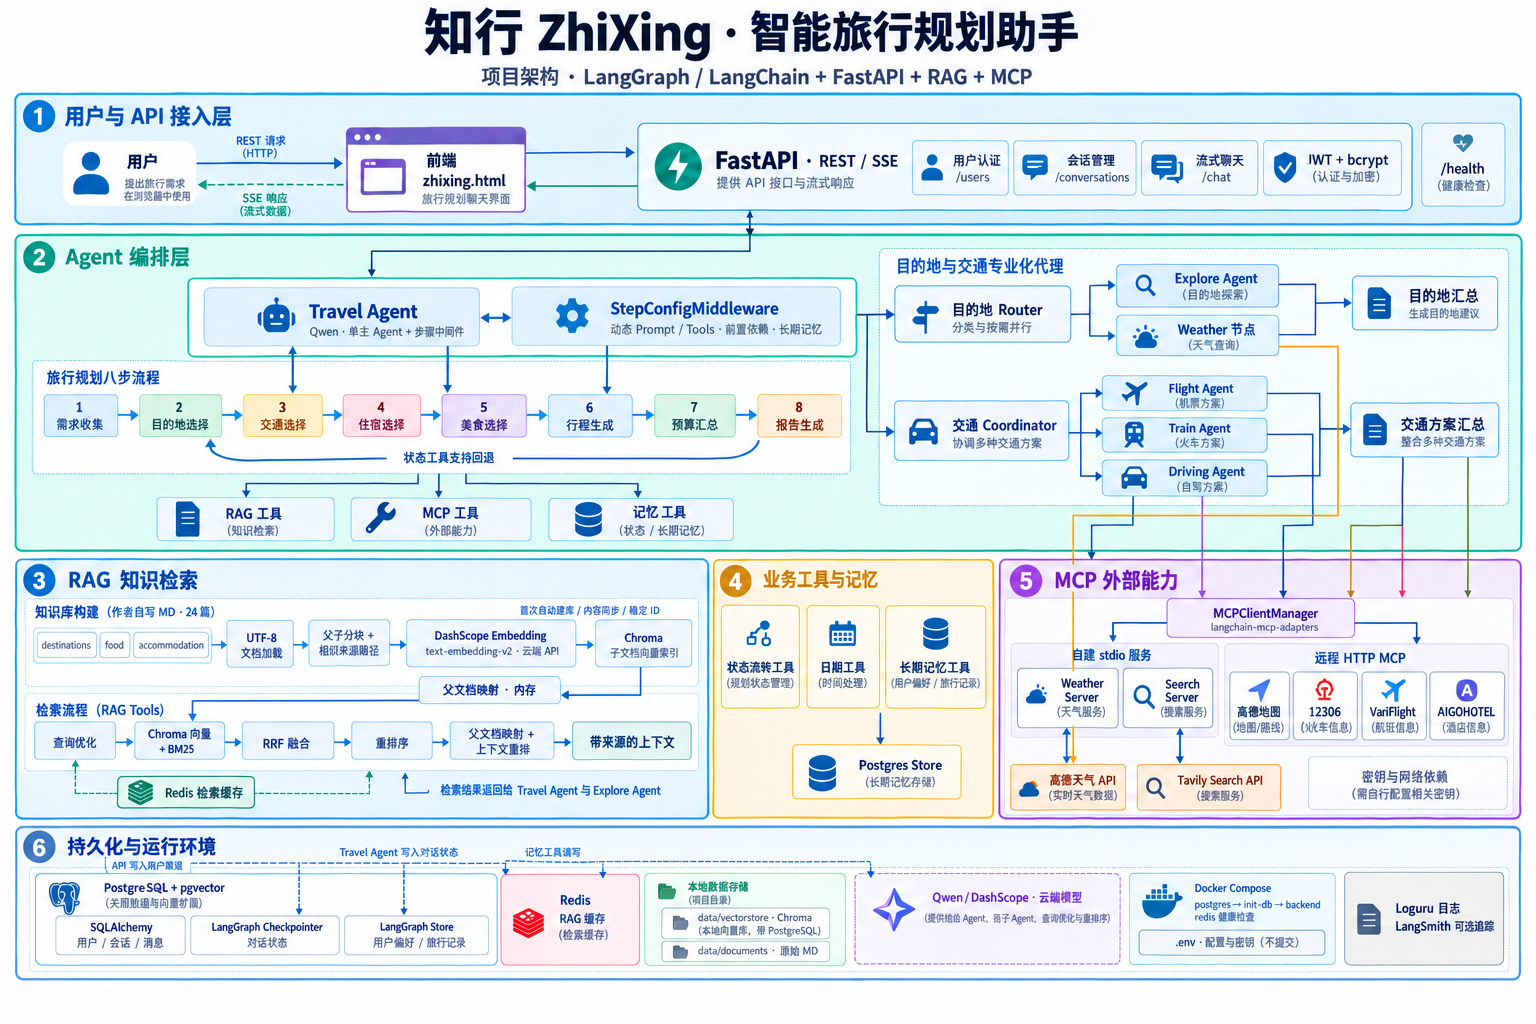
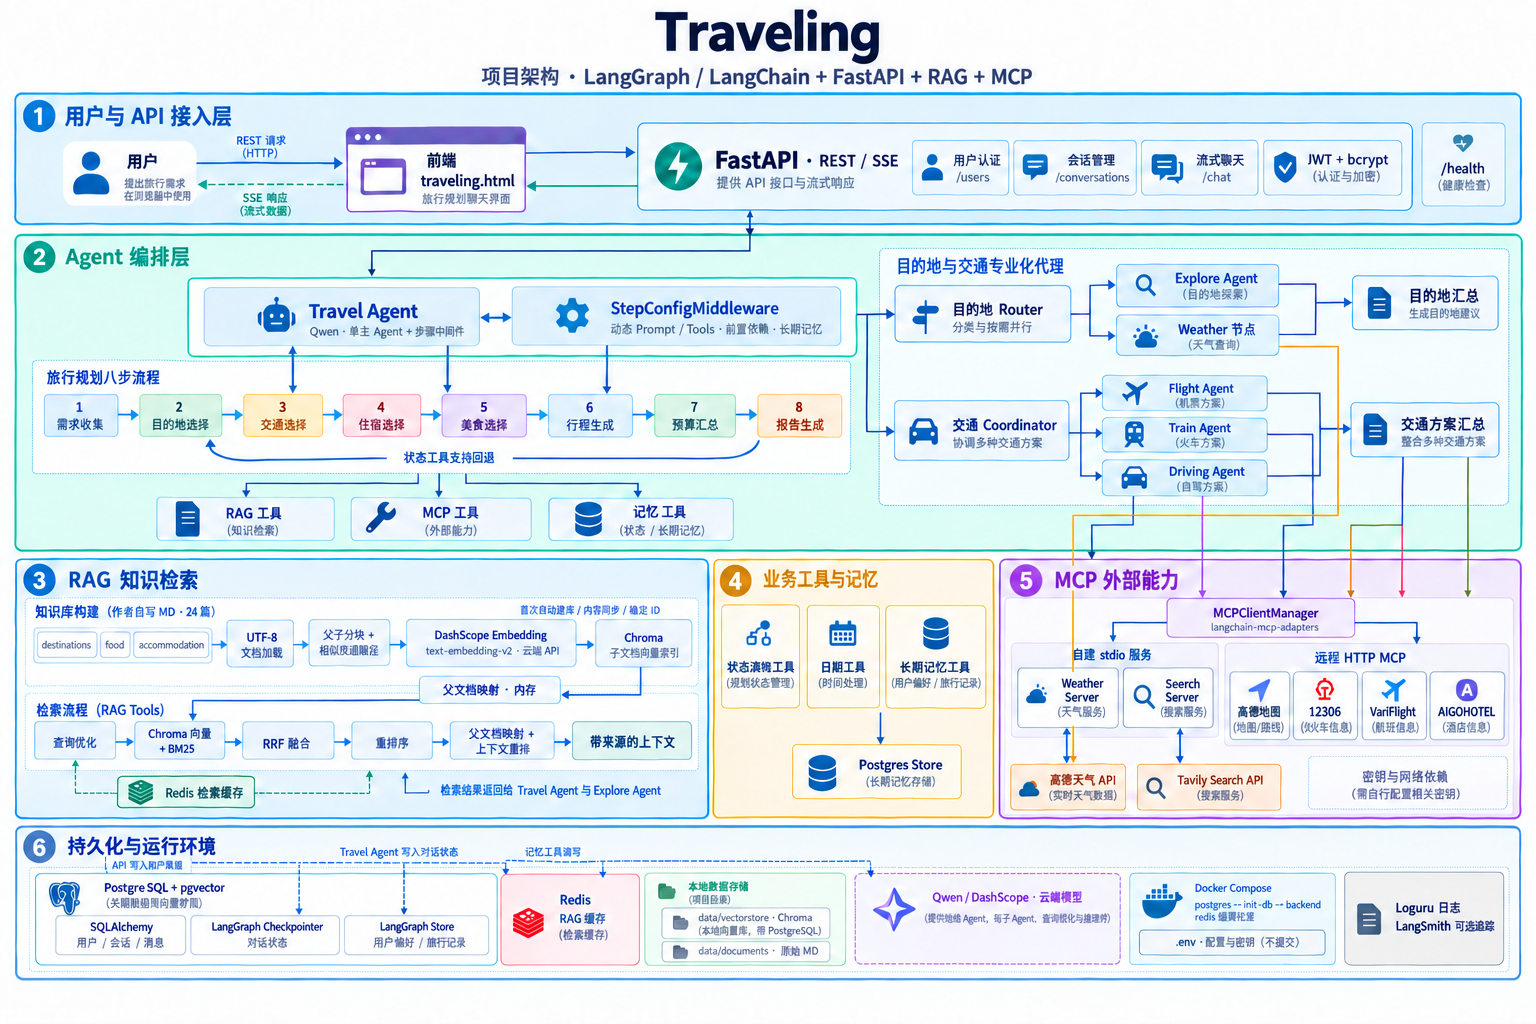
chore: rename project branding to Traveling

diff --git a/traveling.html b/traveling.html
@@ -3,7 +3,7 @@
   <head>
     <meta charset="UTF-8" />
     <meta name="viewport" content="width=device-width, initial-scale=1.0" />
-    <title>知行 ZhiXing - 您的智能旅伴</title>
+    <title>Traveling</title>
     <!-- 引入 Google Fonts: Noto Serif SC (宋体-知性), Noto Sans SC (黑体-现代), Playfair Display (英文衬线) -->
     <link
       href="https://fonts.googleapis.com/css2?family=Noto+Sans+SC:wght@300;400;500&family=Noto+Serif+SC:wght@500;700&family=Playfair+Display:wght@600;700&display=swap"
@@ -17,7 +17,7 @@
 
     <style>
       :root {
-        /* 配色方案：知行 - 大地与海洋 */
+        /* 配色方案：Traveling - 大地与海洋 */
         --primary: #1a4d54; /* 深黛绿 - 沉稳 */
         --primary-light: #2c6e7a;
         --accent: #c28e5c; /* 古铜金 - 高级感强调色 */
@@ -809,7 +809,7 @@
         <div class="stamp-decoration">VISA</div>
 
         <div class="auth-header">
-          <div class="auth-logo"><i class="fa-solid fa-compass"></i>知行</div>
+          <div class="auth-logo"><i class="fa-solid fa-compass"></i>Traveling</div>
           <p class="auth-subtitle">
             Read Thousands of Books, Travel Thousands of Miles
           </p>
@@ -873,7 +873,7 @@
       <aside class="sidebar glass-card">
         <div class="sidebar-header">
           <div class="sidebar-logo-text">
-            <i class="fa-solid fa-mountain-sun"></i> 知行
+            <i class="fa-solid fa-mountain-sun"></i> Traveling
           </div>
           <div class="user-passport">
             <div class="user-avatar-frame" id="userAvatar">User</div>
@@ -923,7 +923,7 @@
             <div class="welcome-logo">
               <i class="fa-solid fa-paper-plane"></i>
             </div>
-            <h3 class="welcome-title">欢迎使用 知行</h3>
+            <h3 class="welcome-title">欢迎使用 Traveling</h3>
             <p class="welcome-text">
               告诉我你想去哪里？我可以帮你规划路线、寻找隐秘的沙滩、预订最棒的日落景观位。
             </p>
@@ -1030,7 +1030,7 @@
             state.user = data.user;
             localStorage.setItem("token", state.token);
             localStorage.setItem("user", JSON.stringify(state.user));
-            showToast(isRegister ? "欢迎加入知行！" : "欢迎回来！");
+            showToast(isRegister ? "欢迎加入 Traveling！" : "欢迎回来！");
             hideAuthOverlay();
             updateUserInfo();
             loadConversations();
@@ -1206,7 +1206,7 @@
         document.getElementById("chatMessages").innerHTML = `
                 <div class="welcome-screen">
                     <div class="welcome-logo"><i class="fa-solid fa-paper-plane"></i></div>
-                    <h3 class="welcome-title">欢迎使用 知行</h3>
+                    <h3 class="welcome-title">欢迎使用 Traveling</h3>
                     <p class="welcome-text">告诉我你想去哪里？我可以帮你规划路线、寻找隐秘的沙滩、预订最棒的日落景观位。</p>
                 </div>
             `;

diff --git a/app/main.py b/app/main.py
@@ -52,7 +52,7 @@ async def lifespan(app: FastAPI):
 
 
 app = FastAPI(
-    title="旅行规划系统",
+    title="Traveling",
     description="企业级多 Agent 旅行规划服务",
     version="1.0.0",
     lifespan=lifespan
@@ -73,13 +73,13 @@ app.include_router(chat.router, prefix="/api/v1")
 
 @app.get("/")
 async def root():
-    return FileResponse(Path(__file__).resolve().parent.parent / "zhixing.html")
+    return FileResponse(Path(__file__).resolve().parent.parent / "traveling.html")
 
 
 @app.get("/health")
 async def health():
     return {
-        "service": "Travel Planner",
+        "service": "Traveling",
         "docs": "/docs",
         "status": "healthy",
         "version": "1.0.0"

diff --git a/docs/architecture-image-prompt.md b/docs/architecture-image-prompt.md
@@ -5,12 +5,12 @@
 ## 生成提示词
 
 Use case: infographic-diagram.
-Asset type: a complete raster software architecture diagram for the GitHub README of 知行 ZhiXing travel planner. Create one polished high-resolution landscape image with a white background, crisp readable Chinese typography, simple flat technical blocks, subtle navy/teal/purple/amber color coding, generous whitespace, orthogonal directional arrows, no photographic or decorative scene. This is an engineering diagram: accurate labels and connections are more important than ornament. Aim for 3072x2048 or similarly large landscape resolution. Do not render source code or Mermaid.
+Asset type: a complete raster software architecture diagram for the GitHub README of Traveling travel planner. Create one polished high-resolution landscape image with a white background, crisp readable Chinese typography, simple flat technical blocks, subtle navy/teal/purple/amber color coding, generous whitespace, orthogonal directional arrows, no photographic or decorative scene. This is an engineering diagram: accurate labels and connections are more important than ornament. Aim for 3072x2048 or similarly large landscape resolution. Do not render source code or Mermaid.
 
-Title verbatim: "知行 ZhiXing · 智能旅行规划助手"
+Title verbatim: "Traveling"
 Subtitle: "项目架构 · LangGraph / LangChain + FastAPI + RAG + MCP"
 
-Arrange four main horizontal tiers with clearly labeled subsystem containers. Tier 1 top full width: user icon "用户" -> "前端 zhixing.html" -> "FastAPI · REST / SSE". REST request forward and SSE response back. FastAPI has small endpoint boxes "用户认证 /users", "会话管理 /conversations", "流式聊天 /chat", and "JWT + bcrypt". Show health label "/health" small separate.
+Arrange four main horizontal tiers with clearly labeled subsystem containers. Tier 1 top full width: user icon "用户" -> "前端 traveling.html" -> "FastAPI · REST / SSE". REST request forward and SSE response back. FastAPI has small endpoint boxes "用户认证 /users", "会话管理 /conversations", "流式聊天 /chat", and "JWT + bcrypt". Show health label "/health" small separate.
 
 Tier 2 central orchestration large container "Agent 编排层".
 Main left-center box: "Travel Agent" subtext "Qwen · 单主 Agent + 步骤中间件".
@@ -50,3 +50,8 @@ Make only these engineering accuracy corrections:
 3. Section numbering must be sequential: 1 用户与 API 接入层, 2 Agent 编排层, 3 RAG 知识检索, 4 业务工具与记忆, 5 MCP 外部能力, 6 持久化与运行环境. Put 5 in the purple MCP section badge and change the final persistent section badge from 4 to 6.
 4. In RAG indexing, Chroma connects to the query box Chroma 向量 + BM25 (vector candidate retrieval), not to 带来源的上下文. Remove the vertical arrow between the Chroma 子文档向量索引 box and 带来源的上下文. The retrieved context comes from 父文档映射 + 上下文重排. Draw a small thin connecting line from the Chroma index box to Chroma 向量 + BM25 routed within RAG area, keeping labels unobstructed.
 Do not add or remove any other components. No extra footer. Output one polished image at the same landscape aspect ratio.
+
+
+## 品牌命名修订
+
+使用内置 imagegen 编辑：将图片主标题改为 Traveling，前端文件名改为 traveling.html，其余模块、文字和连线保持原样。

diff --git a/README.md b/README.md
@@ -1,12 +1,12 @@
-# 知行 ZhiXing · 智能旅行规划助手
+# Traveling
 
-基于 LangGraph / LangChain 多 Agent、RAG 和 MCP 的旅行规划学习项目。后端使用 FastAPI，聊天通过 SSE 返回；前端为单文件页面 `zhixing.html`。
+基于 LangGraph / LangChain 多 Agent、RAG 和 MCP 的旅行规划学习项目。后端使用 FastAPI，聊天通过 SSE 返回；前端为单文件页面 `traveling.html`。
 
 支持需求收集、目的地推荐、交通协调、住宿与美食建议，以及行程和预算报告。对话状态、用户和长期记忆保存在 PostgreSQL 中，RAG 索引使用本地 Chroma。
 
 ## 项目架构
 
-[![知行项目架构图：API、Agent 编排、RAG、MCP 与持久化](docs/assets/architecture.png)](docs/assets/architecture.png)
+[![Traveling 项目架构图：API、Agent 编排、RAG、MCP 与持久化](docs/assets/architecture.png)](docs/assets/architecture.png)
 
 点击图片可查看大图。主规划流程由一个 Travel Agent 和步骤中间件驱动；目的地 Router 按查询需求分发 Explore / Weather 节点，交通 Coordinator 调用航班、火车、自驾子 Agent。主 Agent 也可直接使用 RAG、MCP 和长期记忆工具。
 
@@ -199,7 +199,7 @@ app/
 └── config.py        # 环境配置
 scripts/             # 数据库和 RAG 初始化
 data/documents/      # 作者提供的 24 篇 Markdown 知识库
-zhixing.html         # 前端，后端通过 / 提供
+traveling.html         # 前端，后端通过 / 提供
 ```
 
 ## API 与测试
